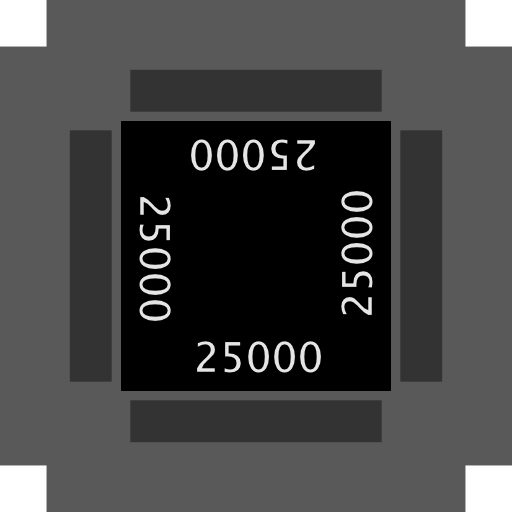
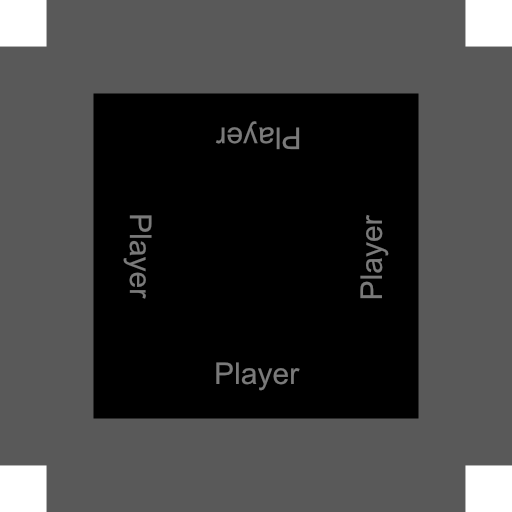
Change center shape and texture

Changed region(s): [[0.125, 0.125, 0.875, 0.875]]

diff --git a/src/center.ts b/src/center.ts
@@ -82,7 +82,7 @@ export class Center {
     
     this.ctx.resetTransform();
 
-    this.ctx.fillStyle = '#000';
+    this.ctx.fillStyle = '#333';
     this.ctx.fillRect(offset, offset, width, width);
 
     this.ctx.textBaseline = 'middle';
@@ -126,7 +126,7 @@ export class Center {
 
     if (nick === null) {
       text = 'Empty';
-      this.ctx.fillStyle = '#333'; //gray for empty
+      this.ctx.fillStyle = '#555'; //gray for empty
     } else if (nick === '') {
       text = 'Player';
     } else {
